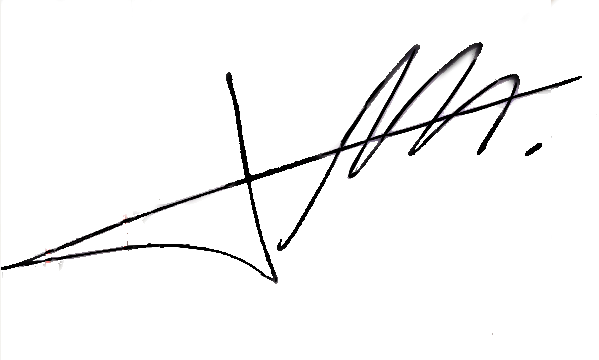
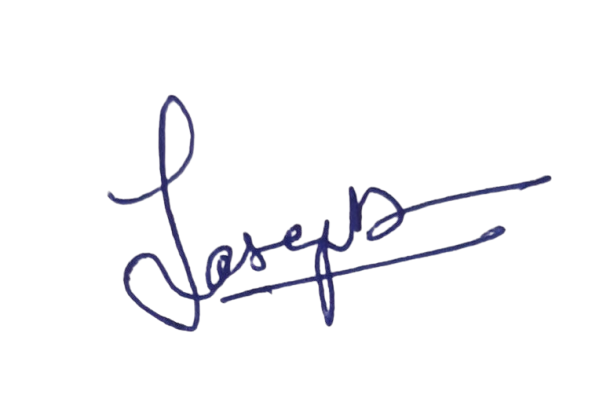
certificate changes with sign

diff --git a/resources/views/admin/screens/certificate/index.blade.php b/resources/views/admin/screens/certificate/index.blade.php
@@ -140,8 +140,8 @@
         position: absolute;
         top: 7.2%;
         left: 9.5%;
-        width: 25%;
-        height: 15%;
+        /* width: 25%; */
+        height: 40mm;
         object-fit: contain;
         object-position: left center;
       }
@@ -158,8 +158,8 @@
 
       .college-logo {
         width: auto;
-        height: 30mm;
-        max-height: 15vh;
+        height: 40mm;
+        /* max-height: 15vh; */
         object-fit: contain;
         display: block;
       }
@@ -248,7 +248,7 @@
         text-align: center;
 
         font-family: "Playfair Display", Georgia, "Times New Roman", serif;
-        font-size: 21mm;
+        font-size: 15mm;
         line-height: 21mm;
         font-weight: bold;
         color: #09275e;
@@ -334,8 +334,8 @@
 
       .signature img {
         display: block;
-        width: 45mm;
-        height: 15mm;
+        /* width: 45mm; */
+        height: 20mm;
         object-fit: contain;
         margin: 0 auto -1mm;
       }
@@ -474,7 +474,7 @@
               </div>
               <p>conducted by</p>
               <div style="font-weight: bold; font-size: 5mm">
-                INSOURCE TECH PRIVATE LIMITED, JODHPUR
+                INTSOURCE TECH PRIVATE LIMITED, JODHPUR
               </div>
               <div>and</div>
                <div style="font-weight: bold; font-size: 5mm">
